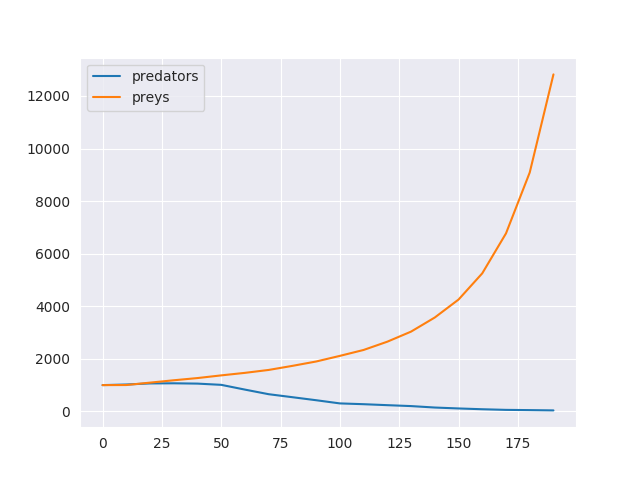
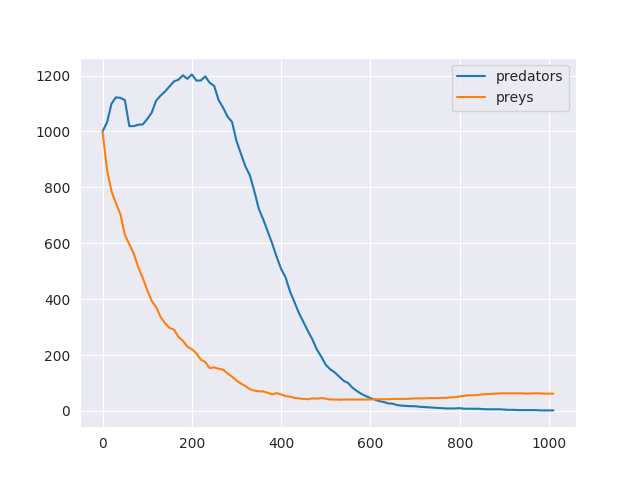
add age

diff --git a/garl_gym/scenarios/simple_population_dynamics_ga.py b/garl_gym/scenarios/simple_population_dynamics_ga.py
@@ -123,6 +123,7 @@ class SimplePopulationDynamicsGA(BaseEnv):
             agent.health = health
             agent.original_health = health
             agent.birth_time = self.timestep
+            agent.life = np.random.normal(500, scale=100)
             if i < self.predator_num:
                 agent.predator = True
                 agent.id = self.max_id
@@ -225,6 +226,7 @@ class SimplePopulationDynamicsGA(BaseEnv):
         perm = np.random.permutation(np.arange(len(ind[0])))
         index = 0
         for predator in list(self.predators.values()):
+            flag = True
             x, y = predator.pos
             local_map = self.large_map[(self.w+x-crossover_scope//2):(self.w+x-crossover_scope//2+crossover_scope), (self.h+y-crossover_scope//2):(self.h+y-crossover_scope//2+crossover_scope)]
             agent_indices = np.where(local_map > 0)
@@ -238,7 +240,7 @@ class SimplePopulationDynamicsGA(BaseEnv):
                 predator.checked.append(candidate_agent.id)
                 if candidate_agent.predator and not candidate_agent.crossover and predator.id != candidate_agent.id and predator.id not in candidate_agent.checked:
                     candidate_agent.get_closer = True
-                    if np.random.rand() < crossover_rate:
+                    if np.random.rand() < crossover_rate and flag:
                         #for i in range(np.random.randint(self.args.max_predator_offsprings)):
                         candidate_agent.crossover = True
                         predator.crossover = True
@@ -248,6 +250,7 @@ class SimplePopulationDynamicsGA(BaseEnv):
                         new_embedding = np.random.normal(size=[self.agent_emb_dim])
                         self.agent_embeddings[child.id] = new_embedding
                         child.spped = None
+                        child.life = np.random.normal(500, scale=100)
                         child.predator = True
                         child.health = 1
                         child.hunt_square = self.max_hunt_square
@@ -261,11 +264,10 @@ class SimplePopulationDynamicsGA(BaseEnv):
                         self.predators[child.id] = child
                         self.predator_num += 1
                         ### decrease health?
-                        candidate_agent.health -= 0.1
-                        predator.health -= 0.1
+                        #candidate_agent.health -= 0.1
+                        #predator.health -= 0.1
                         self.increase_predators += 1
-
-                        break
+                        flag = False
 
     def crossover_prey(self, crossover_scope=3, crossover_rate=0.001):
         ind = np.where(self.map == 0)
@@ -275,6 +277,7 @@ class SimplePopulationDynamicsGA(BaseEnv):
             x, y = prey.pos
             local_map = self.large_map[(self.w+x-crossover_scope//2):(self.w+x-crossover_scope//2+crossover_scope), (self.h+y-crossover_scope//2):(self.h+y-crossover_scope//2+crossover_scope)]
             agent_indices = np.where(local_map > 0)
+            flag = True
 
             if len(agent_indices[0]) == 0 or prey.crossover:
                 continue
@@ -286,7 +289,7 @@ class SimplePopulationDynamicsGA(BaseEnv):
 
                 if not candidate_agent.predator and not candidate_agent.crossover and candidate_agent.id != prey.id and prey.id not in candidate_agent.checked:
                     candidate_agent.get_closer = True
-                    if np.random.rand() < crossover_rate:
+                    if np.random.rand() < crossover_rate and flag:
                         candidate_agent.crossover = True
                         prey.crossover = True
                         child = Agent()
@@ -294,6 +297,7 @@ class SimplePopulationDynamicsGA(BaseEnv):
                         self.max_id += 1
                         child.speed = None
                         child.predator = False
+                        child.life = np.random.normal(500, scale=100)
                         child.health = 1
                         new_embedding = np.random.normal(size=[self.agent_emb_dim])
                         self.agent_embeddings[child.id] = new_embedding
@@ -308,18 +312,17 @@ class SimplePopulationDynamicsGA(BaseEnv):
                         self.preys[child.id] = child
                         self.prey_num += 1
 
-                        candidate_agent.health -= 0.1
-                        prey.health -= 0.1
+                        #candidate_agent.health -= 0.1
+                        #prey.health -= 0.1
                         self.increase_preys += 1
-                        break
+                        flag = False
 
     def remove_dead_agents(self):
         killed = []
         for agent in self.agents.values():
             #if agent.health <= 0 or np.random.rand() < 0.05:
             #if agent.health <= 0:
-            death_prob = norm.cdf(agent.age, loc=400, scale=150)
-            if (agent.health <= 0):
+            if (agent.health <= 0 or agent.age >= agent.life):
                 x, y = agent.pos
                 self.map[x][y] = 0
                 self.large_map[x:self.large_map.shape[0]:self.map.shape[0], y:self.large_map.shape[1]:self.map.shape[1]] = 0
@@ -338,12 +341,6 @@ class SimplePopulationDynamicsGA(BaseEnv):
                 x, y = agent.pos
                 self.map[x][y] = 0
                 self.large_map[x:self.large_map.shape[0]:self.map.shape[0], y:self.large_map.shape[1]:self.map.shape[1]] = 0
-            #elif not agent.predator and np.random.rand() < death_prob: # Change this later
-            #    killed.append(agent.id)
-            #    del self.preys[agent.id]
-            #    self.prey_num -= 1
-            #    x, y = agent.pos
-            #    self.map[x][y] = 0
             else:
                 agent.age += 1
                 agent.crossover=False
@@ -510,7 +507,7 @@ def _get_reward(agent):
             reward += 1
 
         if agent.crossover:
-            reward += 1.5
+            reward += 1
 
         if agent.health <= 0:
             reward -= 2
@@ -519,7 +516,7 @@ def _get_reward(agent):
             reward -= 2
 
         if agent.crossover:
-            reward += 1.5
+            reward += 1
         #else:
         #    reward += 0.2
 

diff --git a/garl_gym/scenarios/simple_population_dynamics_rule_base.py b/garl_gym/scenarios/simple_population_dynamics_rule_base.py
@@ -370,8 +370,10 @@ class SimplePopulationDynamicsRuleBase(BaseEnv):
 
                 for ally_x, ally_y in coord_ally:
                     new_dist_ally += (new_x-ally_x)**2 + (new_y-ally_y)**2
-
-                dist_values.append(agent.w_eating*new_dist_oppo-agent.w_mating*new_dist_ally)  # negative of dist for ally
+                if agent.predator:
+                    dist_values.append(-agent.w_eating*new_dist_oppo-agent.w_mating*new_dist_ally)  # negative of dist for ally
+                else:
+                    dist_values.append(agent.w_eating*new_dist_oppo-agent.w_mating*new_dist_ally)  # negative of dist for ally
             action = np.argmax(dist_values)
 
             self._take_action(agent, action)

diff --git a/garl_gym/base.py b/garl_gym/base.py
@@ -26,6 +26,9 @@ class BaseEnv(object):
             agent.health = health
             agent.original_health = health
             agent.birth_time = self.timestep
+
+            life = np.random.normal(loc=500, scale=100)
+            agent.life = life
             if i < self.predator_num:
                 agent.predator = True
                 agent.id = self.max_id
@@ -105,7 +108,6 @@ class BaseEnv(object):
                 self.decrease_health(agent)
             else:
                 self._take_action(agent, action)
-                agent.health += 0.001
 
     def _take_action(self, agent, action):
         def in_board(x, y):

diff --git a/garl_gym/core.py b/garl_gym/core.py
@@ -57,6 +57,7 @@ class Agent(object):
         self.w_moving = None
         self.fail_crossover = False
         self.checked = []
+        self.life = None
 
     def utility(self):
         if self.predator:
